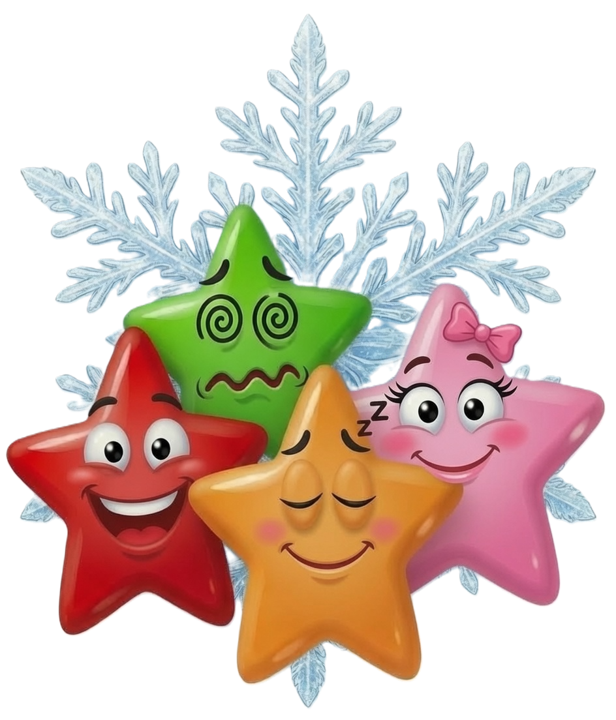
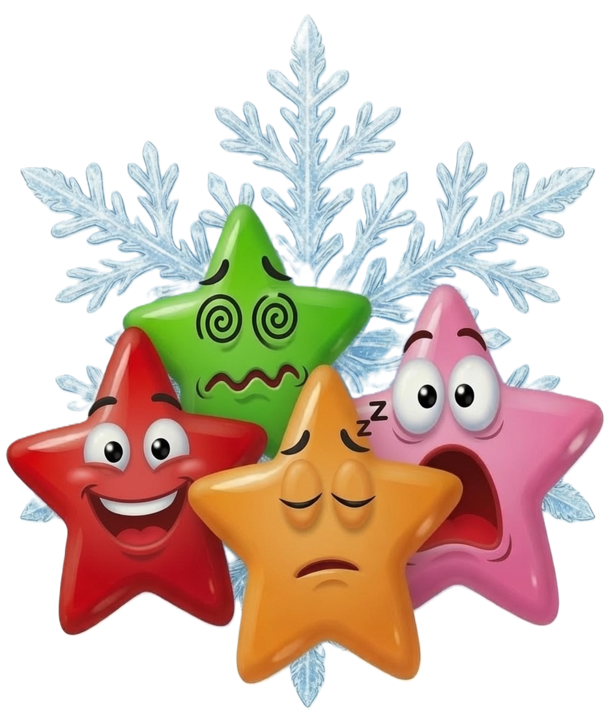
Site update Mon 11/23/2026 22:39:21.75

diff --git a/guestbook/index.html b/guestbook/index.html
@@ -6,7 +6,12 @@
 <title>Guest Book — Long Creek Lights</title>
 <link href="https://fonts.googleapis.com/css2?family=Mountains+of+Christmas:wght@700&family=Nunito:wght@600;800&display=swap" rel="stylesheet">
 <style>
+  /* v3 (2026-11-23): long messages are no longer cut off. The card fills whatever
+     height the host iframe gives it; a message shows 6 lines, and if there is more,
+     a "Read more" button expands it (scrolling inside the card if needed) and pauses
+     the rotation. ‹ › arrows step through messages. */
   * { box-sizing: border-box; margin: 0; padding: 0; }
+  html, body, #root { height: 100%; }
   body {
     background: transparent;
     color: #f5f7fa;
@@ -15,7 +20,7 @@
     padding: 2px;
     overflow: hidden;
   }
-  .stage { position: relative; min-height: 150px; transition: height 0.5s ease; }
+  .stage { position: relative; height: 100%; min-height: 150px; }
   .card {
     position: absolute;
     inset: 0;
@@ -23,8 +28,8 @@
     flex-direction: column;
     align-items: center;
     justify-content: center;
-    gap: 8px;
-    padding: 20px 24px 26px;
+    gap: 6px;
+    padding: 18px 22px 30px;
     background: linear-gradient(160deg, rgba(255,255,255,0.12) 0%, rgba(255,255,255,0.04) 100%);
     border: 2px solid rgba(255, 209, 102, 0.45);
     border-radius: 16px;
@@ -33,7 +38,7 @@
     pointer-events: none;
     overflow: hidden;
   }
-  .card.show { opacity: 1; }
+  .card.show { opacity: 1; pointer-events: auto; }
   /* decorative open-quote pinned to the corner (clearly intentional, out of the text flow) */
   .quote-mark {
     position: absolute;
@@ -50,27 +55,85 @@
     font-size: clamp(0.95rem, 3.8vw, 1.1rem);
     line-height: 1.5;
     font-weight: 700;
+    width: 100%;
     max-width: 460px;
+    min-height: 0;
     overflow: hidden;
     display: -webkit-box;
-    -webkit-line-clamp: 8;   /* safety net only; 280-char cap ≈ 6-7 lines at phone width */
+    -webkit-line-clamp: 6;
     -webkit-box-orient: vertical;
+    overflow-wrap: anywhere;
   }
+  /* expanded: no clamp; if the full text is taller than the card, it scrolls inside the card
+     (the host iframe has a fixed height and cannot grow) */
+  .card.open .msg {
+    display: block;
+    -webkit-line-clamp: none;
+    overflow-y: auto;
+    flex: 0 1 auto;
+    padding: 0 6px;
+    overscroll-behavior: contain;
+    scrollbar-width: thin;
+    scrollbar-color: rgba(255,209,102,0.55) transparent;
+  }
+  .card.open .msg::-webkit-scrollbar { width: 6px; }
+  /* soft edges hint that the text continues; each fade disappears at that end of the scroll */
+  .card.open .msg { -webkit-mask-image: linear-gradient(to bottom, transparent 0, #000 16px, #000 calc(100% - 16px), transparent 100%); mask-image: linear-gradient(to bottom, transparent 0, #000 16px, #000 calc(100% - 16px), transparent 100%); }
+  .card.open .msg.at-start { -webkit-mask-image: linear-gradient(to bottom, #000 calc(100% - 16px), transparent 100%); mask-image: linear-gradient(to bottom, #000 calc(100% - 16px), transparent 100%); }
+  .card.open .msg.at-end { -webkit-mask-image: linear-gradient(to bottom, transparent 0, #000 16px); mask-image: linear-gradient(to bottom, transparent 0, #000 16px); }
+  .card.open .msg.at-start.at-end { -webkit-mask-image: none; mask-image: none; }
+  .card.open .msg::-webkit-scrollbar-thumb { background: rgba(255,209,102,0.55); border-radius: 3px; }
+  .more {
+    display: none;
+    border: 0;
+    background: none;
+    color: #ffd166;
+    font: inherit;
+    font-weight: 800;
+    font-size: 0.8rem;
+    letter-spacing: 0.04em;
+    text-decoration: underline dotted;
+    text-underline-offset: 3px;
+    cursor: pointer;
+    padding: 2px 8px;
+    flex: 0 0 auto;
+  }
+  .card.long .more { display: inline-block; }
   .who {
     font-family: 'Mountains of Christmas', cursive;
     color: #ffd166;
     font-size: 1.15rem;
     text-shadow: 0 0 10px rgba(255,209,102,0.35);
+    flex: 0 0 auto;
   }
   .when {
     font-size: 0.72rem;
     font-weight: 700;
     opacity: 0.65;
     letter-spacing: 0.04em;
+    flex: 0 0 auto;
   }
-  .dots { position: absolute; bottom: 6px; left: 0; right: 0; display: flex; justify-content: center; gap: 6px; }
+  .dots { position: absolute; bottom: 8px; left: 44px; right: 44px; display: flex; justify-content: center; gap: 6px; pointer-events: none; }
   .dots i { width: 6px; height: 6px; border-radius: 50%; background: rgba(255,255,255,0.3); transition: background 0.3s; }
   .dots i.on { background: #ffd166; }
+  .count { position: absolute; bottom: 4px; left: 44px; right: 44px; font-size: 0.7rem; font-weight: 800; opacity: 0.6; letter-spacing: 0.06em; pointer-events: none; }
+  .nav {
+    position: absolute;
+    bottom: 0;
+    width: 40px;
+    height: 30px;
+    border: 0;
+    background: none;
+    color: rgba(255,255,255,0.6);
+    font-size: 1.25rem;
+    line-height: 1;
+    cursor: pointer;
+    z-index: 2;
+  }
+  .nav:hover, .nav:focus-visible { color: #ffd166; outline: none; }
+  .nav.prev { left: 2px; }
+  .nav.next { right: 2px; }
+  .nav[hidden] { display: none; }
   .empty {
     border: 2px dashed rgba(255, 209, 102, 0.45);
     border-radius: 16px;
@@ -79,6 +142,7 @@
   .empty .big { font-size: 2rem; display: block; margin-bottom: 8px; }
   .empty p { font-size: 0.9rem; opacity: 0.9; line-height: 1.5; }
   .empty b { color: #ffd166; }
+  @media (prefers-reduced-motion: reduce) { .card { transition: none; } }
 </style>
 </head>
 <body>
@@ -100,7 +164,10 @@
   var SHEET_CSV_URL = 'https://docs.google.com/spreadsheets/d/e/2PACX-1vQWafLAj9capbRc8KKv3UBmaKVWKBwTqsfULz8gW_zMo0TWDLeQxSnRvFzCh3_J6yGSaHUqpzHB2y2-/pub?gid=1889411103&single=true&output=csv';
 
   var MAX_MESSAGES = 30;      /* newest N approved messages rotate */
+  var MAX_CHARS = 1500;       /* safety net only — you approve every message anyway */
   var ROTATE_MS = 7000;
+  var DOTS_MAX = 12;          /* more messages than this -> "3 / 27" counter instead of dots */
+  var reduceMotion = window.matchMedia && window.matchMedia('(prefers-reduced-motion: reduce)').matches;
 
   var root = document.getElementById('root');
 
@@ -149,10 +216,10 @@
     if (!messages.length) return showEmpty(false);
     var stage = document.createElement('div');
     stage.className = 'stage';
-    var dots = document.createElement('div');
-    dots.className = 'dots';
-    var cards = [];
-    messages.forEach(function (m, idx) {
+    var cards = [], msgEls = [], moreBtns = [];
+    var cur = 0, timer = null;
+
+    messages.forEach(function (m) {
       var card = document.createElement('div');
       card.className = 'card';
       var who = m.name || 'A visitor';
@@ -161,10 +228,16 @@
       var msgEl = document.createElement('div');
       msgEl.className = 'msg';
       msgEl.textContent = m.msg;          /* textContent = safe, no HTML injection */
+      var more = document.createElement('button');
+      more.className = 'more';
+      more.type = 'button';
+      more.textContent = 'Read more ▾';
+      more.setAttribute('aria-expanded', 'false');
       var whoEl = document.createElement('div');
       whoEl.className = 'who';
       whoEl.textContent = '— ' + who;
       card.appendChild(msgEl);
+      card.appendChild(more);
       card.appendChild(whoEl);
       if (m.when) {
         var whenEl = document.createElement('div');
@@ -172,48 +245,89 @@
         whenEl.textContent = m.when;
         card.appendChild(whenEl);
       }
+      more.addEventListener('click', function () { toggle(card, more, !card.classList.contains('open')); });
+      msgEl.addEventListener('scroll', function () { edges(msgEl); }, { passive: true });
       stage.appendChild(card);
-      cards.push(card);
-      var dot = document.createElement('i');
-      dots.appendChild(dot);
+      cards.push(card); msgEls.push(msgEl); moreBtns.push(more);
     });
-    stage.appendChild(dots);
+
+    /* dots (few messages) or a "n / N" counter (many) */
+    var dots = null, count = null;
+    if (messages.length <= DOTS_MAX) {
+      dots = document.createElement('div');
+      dots.className = 'dots';
+      messages.forEach(function () { dots.appendChild(document.createElement('i')); });
+      stage.appendChild(dots);
+    } else {
+      count = document.createElement('div');
+      count.className = 'count';
+      stage.appendChild(count);
+    }
+
+    var prev = document.createElement('button');
+    prev.className = 'nav prev'; prev.type = 'button'; prev.textContent = '‹';
+    prev.setAttribute('aria-label', 'Previous message');
+    var next = document.createElement('button');
+    next.className = 'nav next'; next.type = 'button'; next.textContent = '›';
+    next.setAttribute('aria-label', 'Next message');
+    if (messages.length < 2) { prev.hidden = true; next.hidden = true; }
+    prev.addEventListener('click', function () { show(cur - 1); restart(); });
+    next.addEventListener('click', function () { show(cur + 1); restart(); });
+    stage.appendChild(prev);
+    stage.appendChild(next);
     root.appendChild(stage);
 
-    /* size the stage to the tallest card so no message is ever cut off:
-       measure each card's natural height, take the max, apply it */
-    function fitStage() {
-      var maxH = 0;
-      cards.forEach(function (c) {
-        c.style.position = 'static';
-        c.style.visibility = 'hidden';
-        var h = c.offsetHeight;
-        if (h > maxH) maxH = h;
-        c.style.position = '';
-        c.style.visibility = '';
+    /* a message is "long" when the 6-line clamp hides part of it */
+    function measure() {
+      msgEls.forEach(function (el, i) {
+        var wasOpen = cards[i].classList.contains('open');
+        if (wasOpen) cards[i].classList.remove('open');
+        cards[i].classList.toggle('long', el.scrollHeight > el.clientHeight + 2);
+        if (wasOpen) cards[i].classList.add('open');
       });
-      stage.style.height = (maxH + 22) + 'px';   /* + room for the dots */
     }
-    fitStage();
+    function edges(el) {
+      el.classList.toggle('at-start', el.scrollTop <= 1);
+      el.classList.toggle('at-end', el.scrollTop + el.clientHeight >= el.scrollHeight - 1);
+    }
+    function toggle(card, btn, open) {
+      var el = card.querySelector('.msg');
+      card.classList.toggle('open', open);
+      btn.textContent = open ? 'Show less ▴' : 'Read more ▾';
+      btn.setAttribute('aria-expanded', open ? 'true' : 'false');
+      if (open) { stop(); el.scrollTop = 0; edges(el); }
+      else { el.scrollTop = 0; restart(); }
+    }
+    function show(n) {
+      cur = (n + cards.length) % cards.length;
+      cards.forEach(function (c, i) {
+        var on = i === cur;
+        c.classList.toggle('show', on);
+        if (!on && c.classList.contains('open')) toggle(c, moreBtns[i], false);
+      });
+      if (dots) {
+        var ds = dots.children;
+        for (var i = 0; i < ds.length; i++) ds[i].classList.toggle('on', i === cur);
+      }
+      if (count) count.textContent = (cur + 1) + ' / ' + cards.length;
+    }
+    function stop() { if (timer) { clearInterval(timer); timer = null; } }
+    function restart() {
+      stop();
+      if (cards.length > 1 && !reduceMotion) {
+        timer = setInterval(function () { show(cur + 1); }, ROTATE_MS);
+      }
+    }
+
+    measure();
+    show(0);
+    restart();
+    if (document.fonts && document.fonts.ready) document.fonts.ready.then(measure);
     var resizeT;
     window.addEventListener('resize', function () {
       clearTimeout(resizeT);
-      resizeT = setTimeout(fitStage, 150);
+      resizeT = setTimeout(measure, 150);
     });
-
-    var cur = 0;
-    function show(n) {
-      cards.forEach(function (c, i) { c.classList.toggle('show', i === n); });
-      var ds = dots.children;
-      for (var i = 0; i < ds.length; i++) ds[i].classList.toggle('on', i === n);
-    }
-    show(0);
-    if (cards.length > 1) {
-      setInterval(function () {
-        cur = (cur + 1) % cards.length;
-        show(cur);
-      }, ROTATE_MS);
-    }
   }
 
   if (SHEET_CSV_URL.indexOf('http') !== 0) return showEmpty(true);
@@ -246,7 +360,7 @@
             }
           }
           out.push({
-            msg: msg.length > 280 ? msg.slice(0, 277) + '…' : msg,
+            msg: msg.length > MAX_CHARS ? msg.slice(0, MAX_CHARS - 1) + '…' : msg,
             name: iName !== -1 ? (row[iName] || '').trim().slice(0, 40) : '',
             town: iTown !== -1 ? (row[iTown] || '').trim().slice(0, 40) : '',
             when: when
